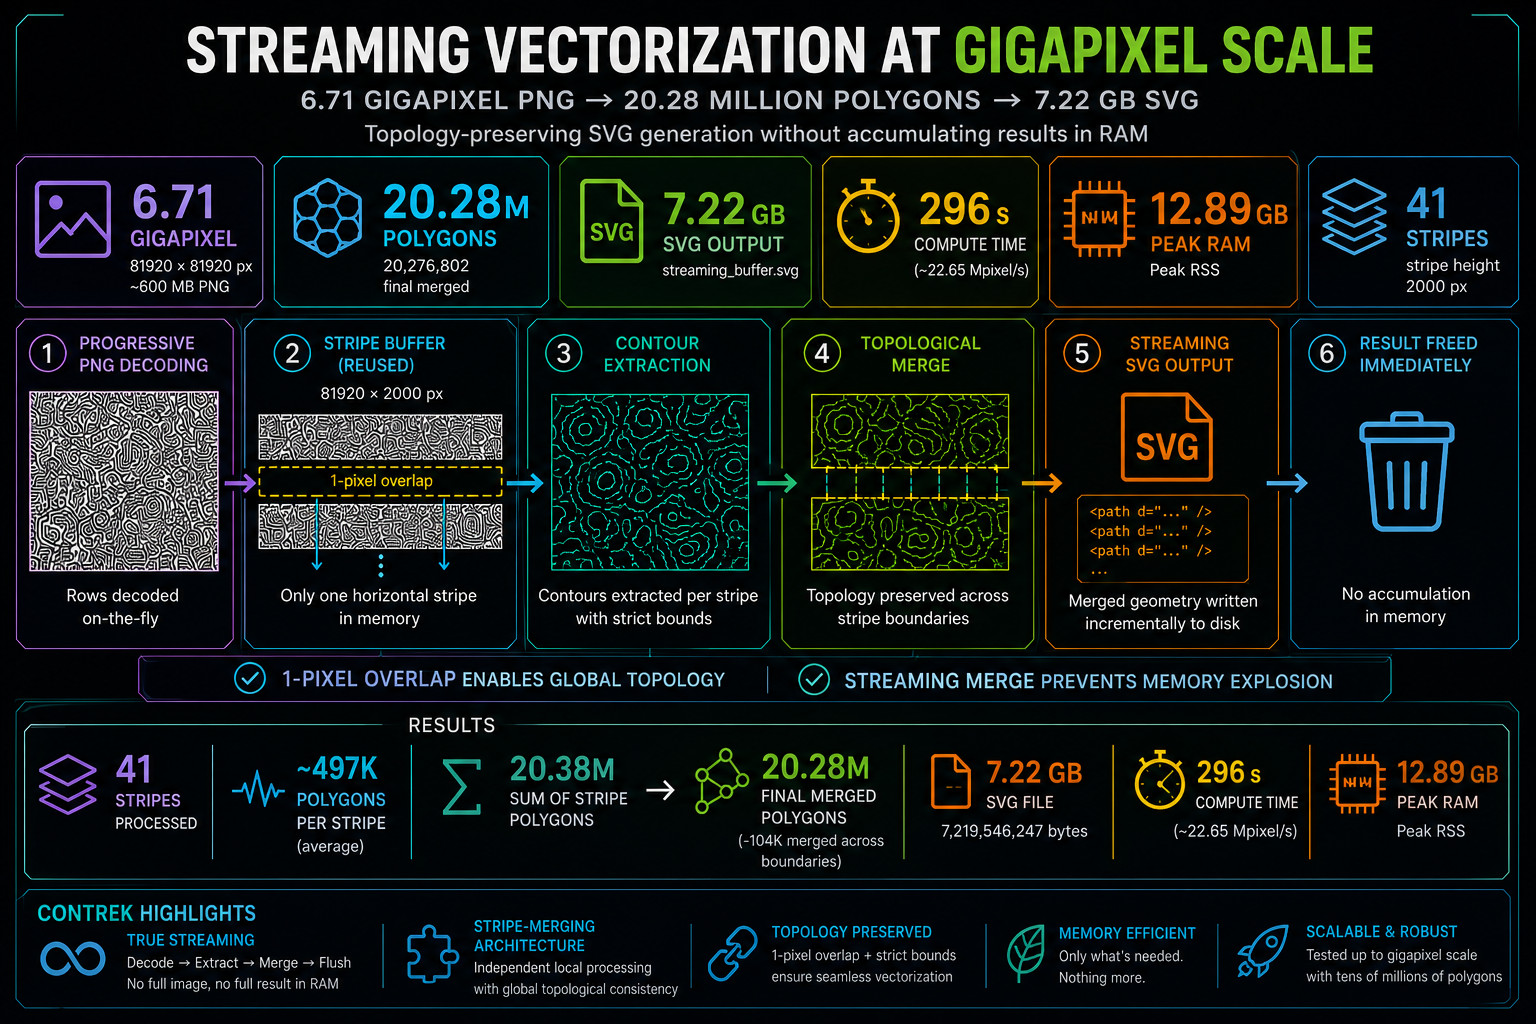
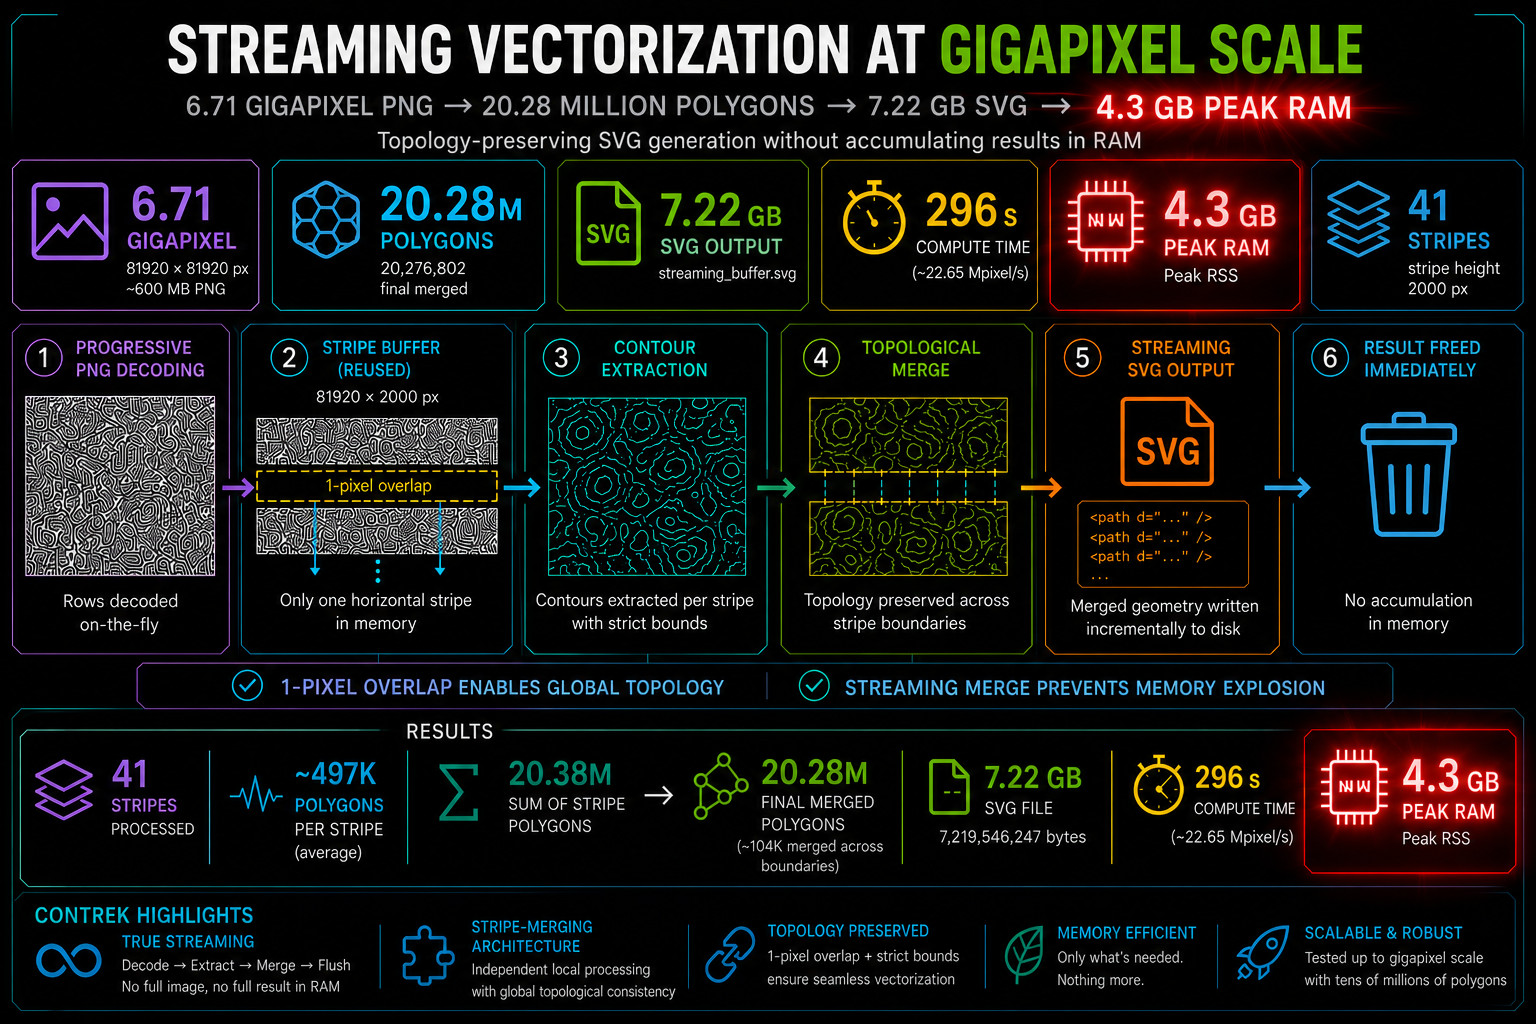
update suite to work with v1.3.2

Changed region(s): [[0.0, 0.0, 1.0, 1.0], [0.6562, 0.9062, 0.7812, 0.9688]]

diff --git a/docs/advanced_techniques.md b/docs/advanced_techniques.md
@@ -155,7 +155,7 @@ Topology statistics
 
 Performance
 - Compute time:        296,267 ms (296 s)
-- Peak RAM usage:      12.89 GB
+- Peak RAM usage:      4.3 GB
 
 Output
 - File:                streaming_buffer.svg
@@ -174,9 +174,9 @@ Only contours that remain topologically active across stripe boundaries are reta
 | ----------------------- | -------: | ---------: | ----: | -------: | ----------: |
 | 40960 × 40960           | 1.67 Gpx |    217,490 |  20 s |  3.16 GB |  560 MB SVG |
 | 81920 × 81920           | 6.71 Gpx |    869,932 |  94 s |    12 GB |  2.3 GB SVG |
-| 81920 × 81920 (high complexity) | 6.71 Gpx | 20,276,802 | 296 s | 12.89 GB | 7.22 GB SVG |
+| 81920 × 81920 (high complexity) | 6.71 Gpx | 20,276,802 | 296 s | 4.3 GB | 7.22 GB SVG |
 
-Despite producing more than **20 million polygons** and generating a **7.22 GB SVG**, memory usage remains bounded because intermediate contour results are merged, streamed to disk, and released immediately after processing each stripe.
+Despite producing more than **20 million polygons** and generating a **7.22 GB SVG**, memory usage remains extremely bounded because intermediate contour results are merged, streamed to disk, and released immediately after processing each stripe.
 
 
 <center><img src="./progressive_streaming_81920.jpg" alt="Streaming" width="70%"/></center>